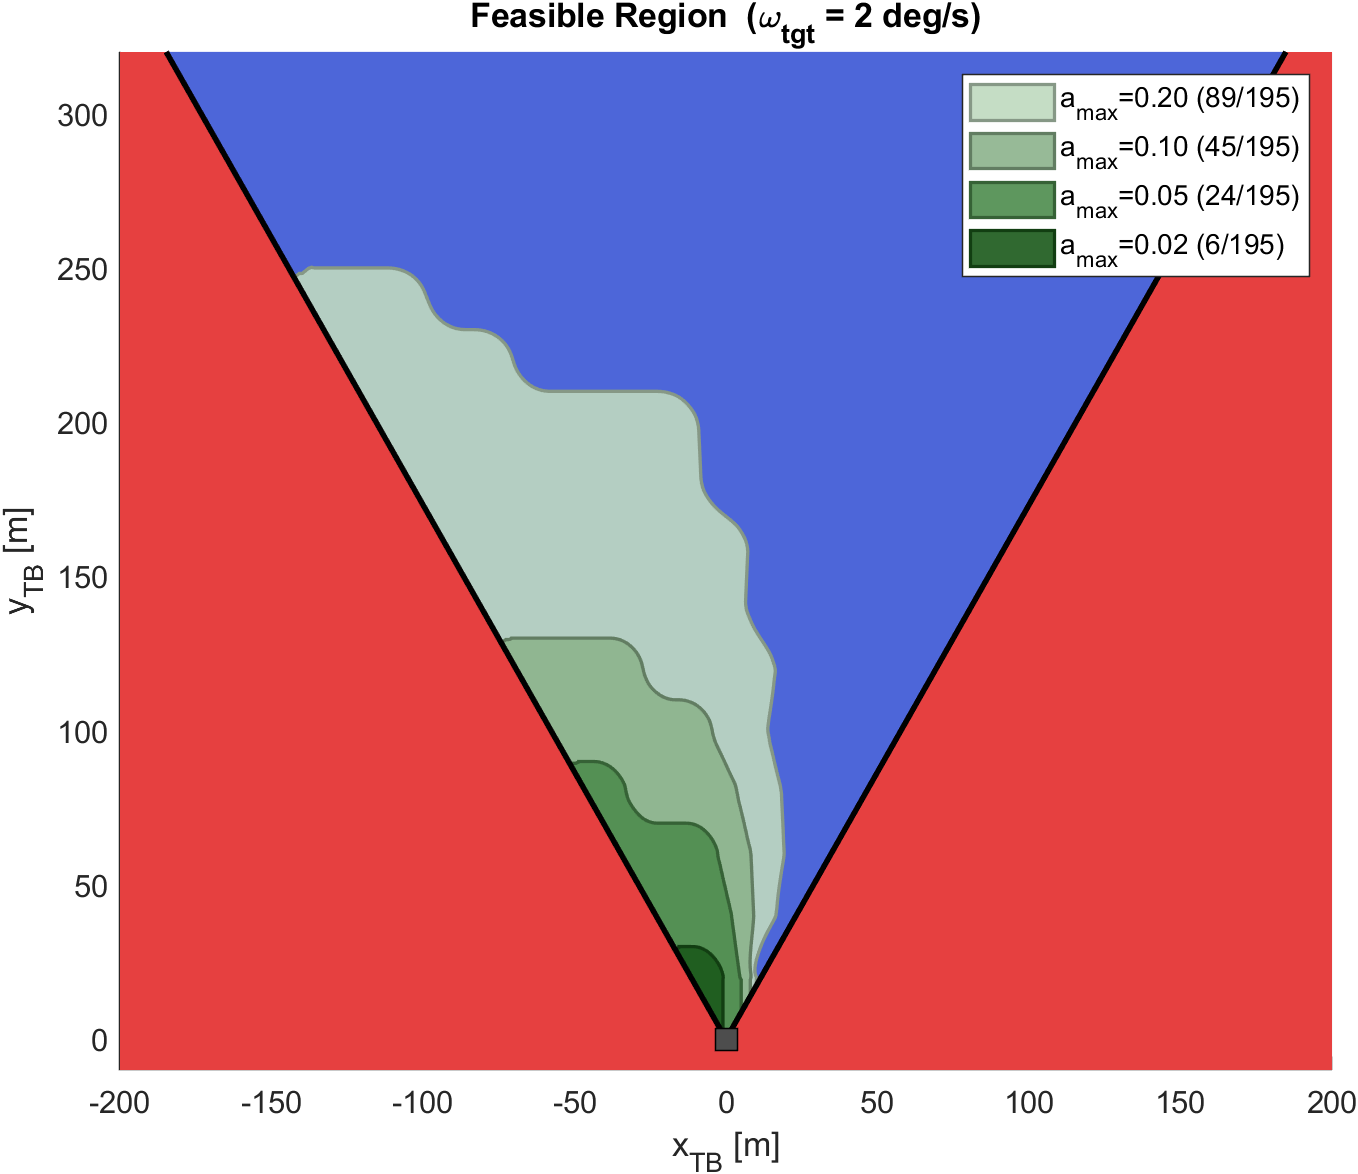
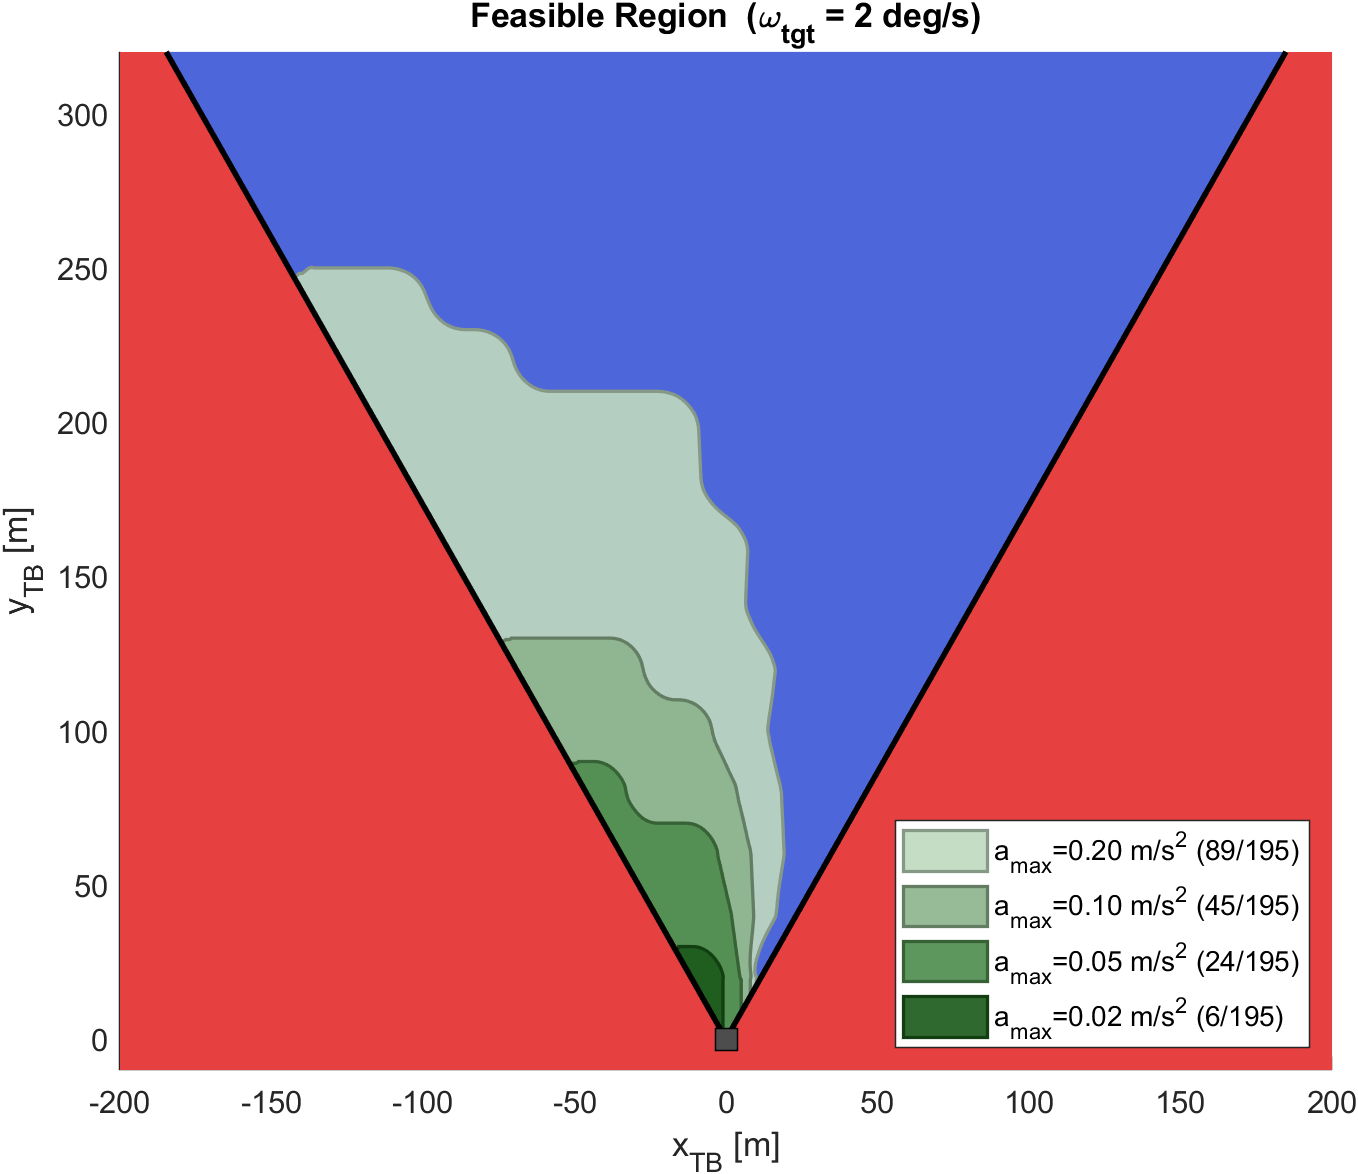
Fix MC legends: add m/s^2 units, move to bottom-right

Changed region(s): [[0.6495, 0.6746, 0.9897, 0.9199], [0.6804, 0.0613, 0.9897, 0.2453]]

diff --git a/plot_mc_figures.m b/plot_mc_figures.m
@@ -130,9 +130,9 @@ for iw = 1:n_omega
     leg_labels = cell(n_amax, 1);
     for ia = 1:n_amax
         n_ok = sum(all_data{iw, ia}.outcomes);
-        leg_labels{ia} = sprintf('a_{max}=%.2f (%d/%d)', amax_vals(ia), n_ok, size(ic_list,1));
+        leg_labels{ia} = sprintf('a_{max}=%.2f m/s^2 (%d/%d)', amax_vals(ia), n_ok, size(ic_list,1));
     end
-    legend(ax, h_layers, leg_labels, 'Location', 'northeast', 'FontSize', 10);
+    legend(ax, h_layers, leg_labels, 'Location', 'southeast', 'FontSize', 10);
 
     xlabel(ax, 'x_{TB} [m]', 'FontSize', 12);
     ylabel(ax, 'y_{TB} [m]', 'FontSize', 12);
@@ -198,7 +198,7 @@ for ia = 1:n_amax
         n_ok = sum(all_data{iw, ia}.outcomes);
         leg_labels{iw} = sprintf('\\omega=%d deg/s (%d/%d)', omega_vals_deg(iw), n_ok, size(ic_list,1));
     end
-    legend(ax, h_layers, leg_labels, 'Location', 'northeast', 'FontSize', 10);
+    legend(ax, h_layers, leg_labels, 'Location', 'southeast', 'FontSize', 10);
 
     xlabel(ax, 'x_{TB} [m]', 'FontSize', 12);
     ylabel(ax, 'y_{TB} [m]', 'FontSize', 12);
